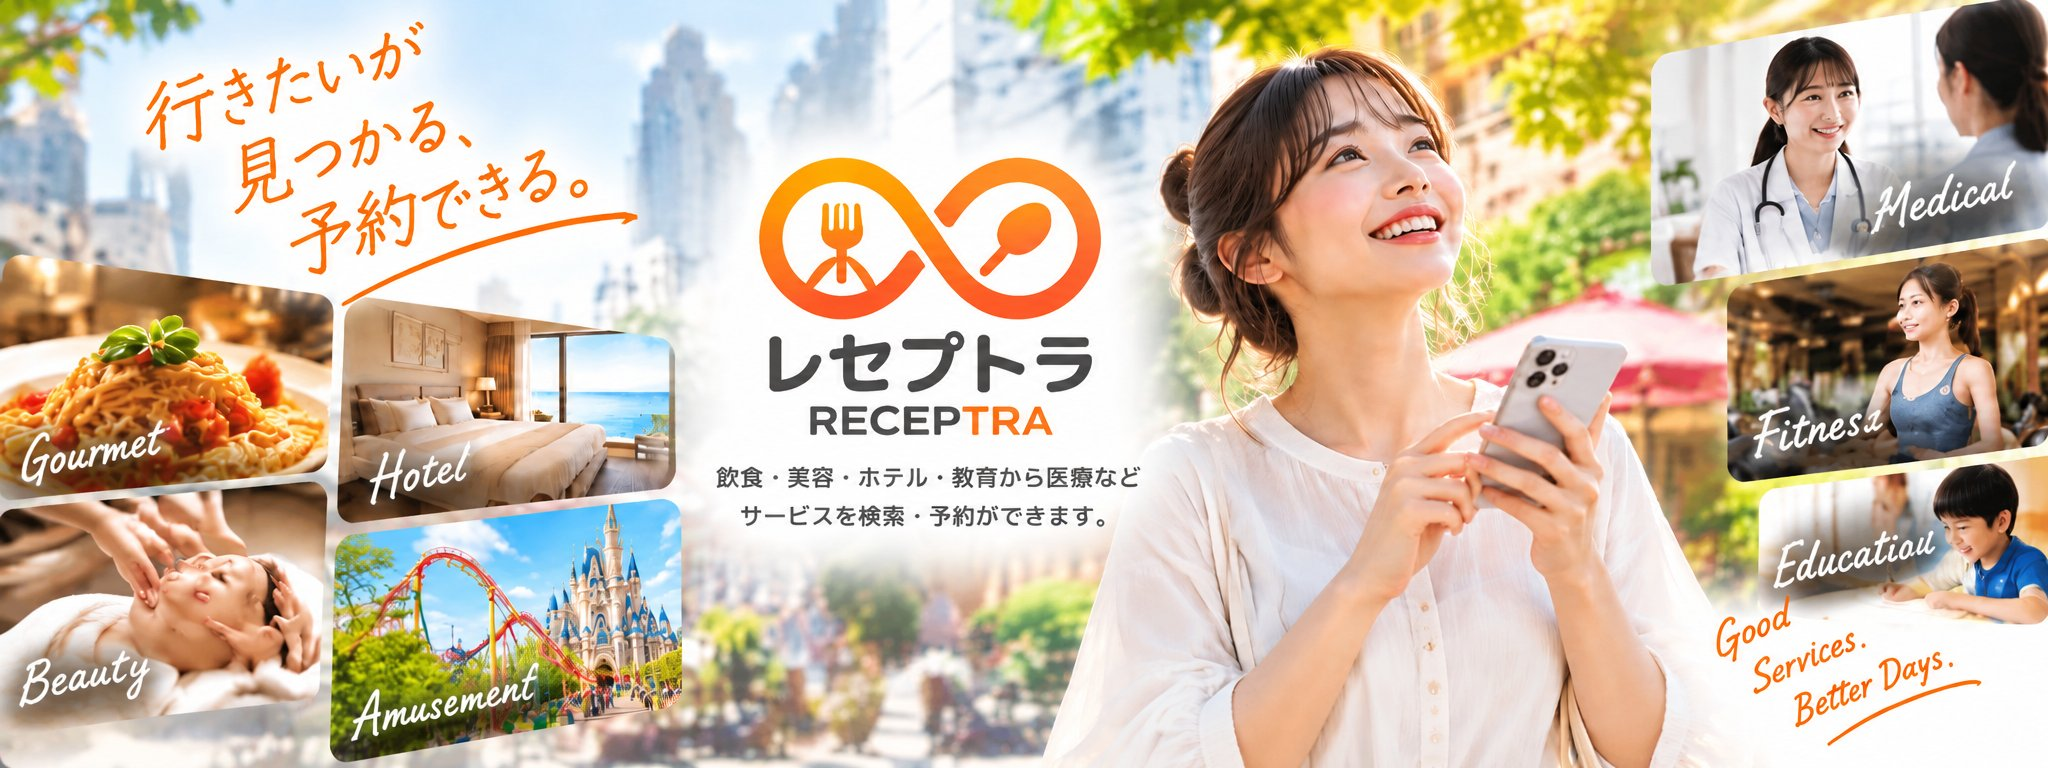
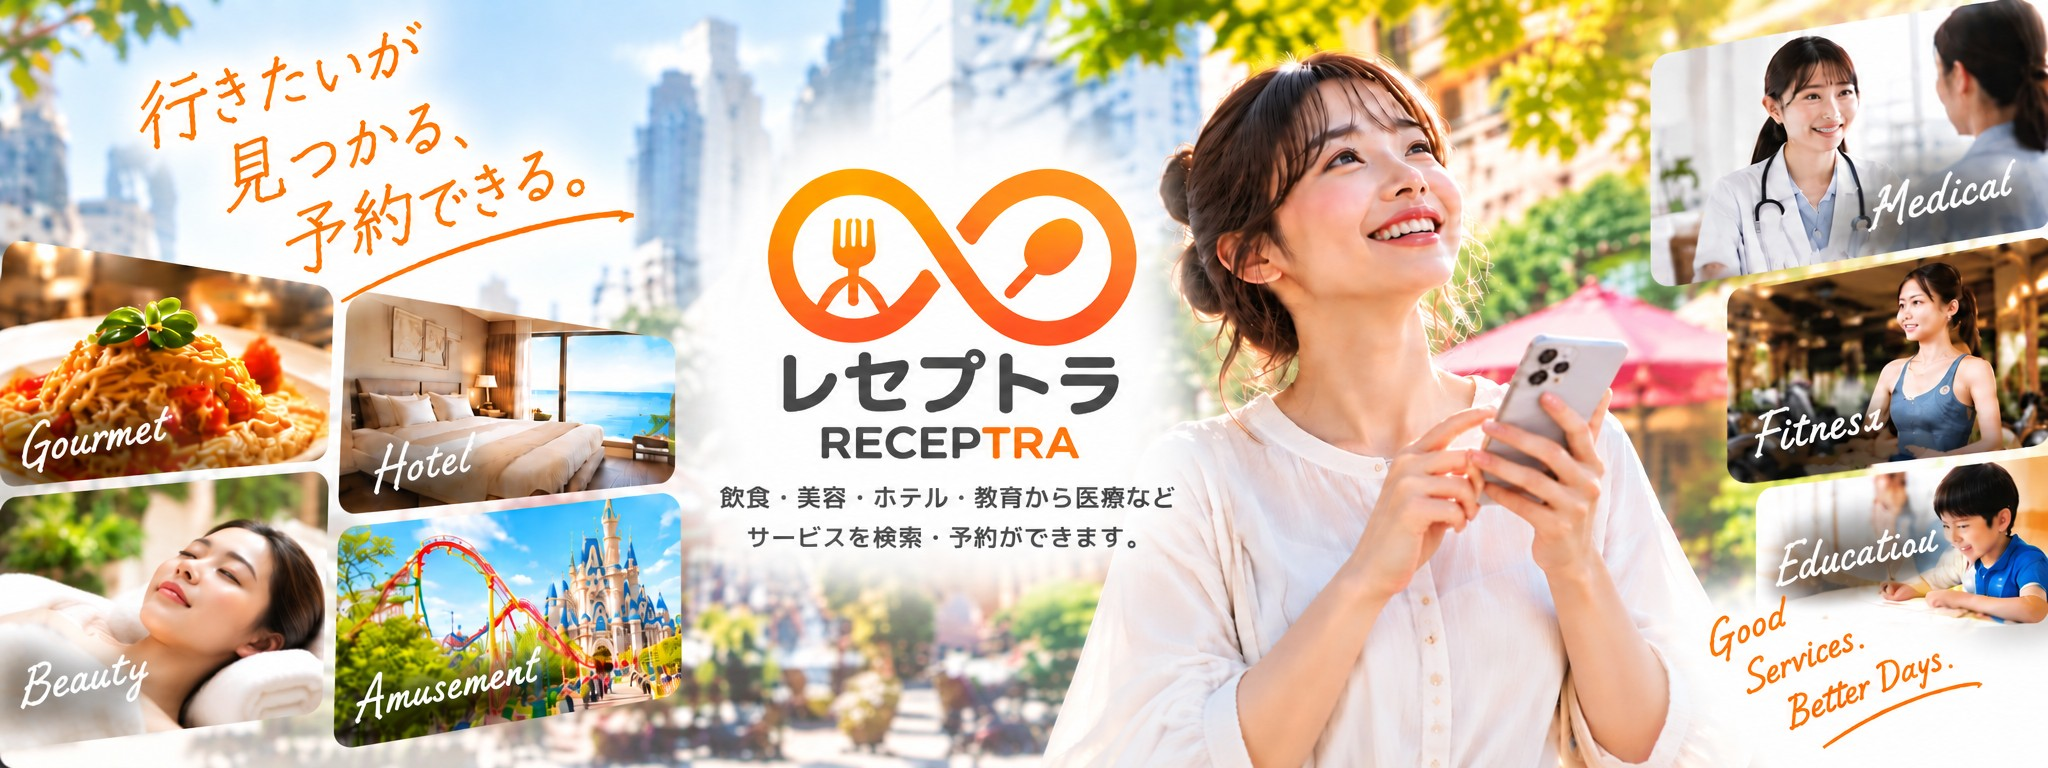
Update hero background image and shift CTA buttons
- Replace background photo with updated version
- Shift the hero CTA buttons ~100px right/down

diff --git a/frontend/dist/index.html b/frontend/dist/index.html
@@ -164,7 +164,7 @@
             position: absolute;
             top: 68%;
             left: 50%;
-            transform: translateX(-50%);
+            transform: translate(calc(-50% + 100px), 100px);
             width: 100%;
             padding: 0 20px;
             display: flex;

diff --git a/frontend/index.html b/frontend/index.html
@@ -164,7 +164,7 @@
             position: absolute;
             top: 68%;
             left: 50%;
-            transform: translateX(-50%);
+            transform: translate(calc(-50% + 100px), 100px);
             width: 100%;
             padding: 0 20px;
             display: flex;
